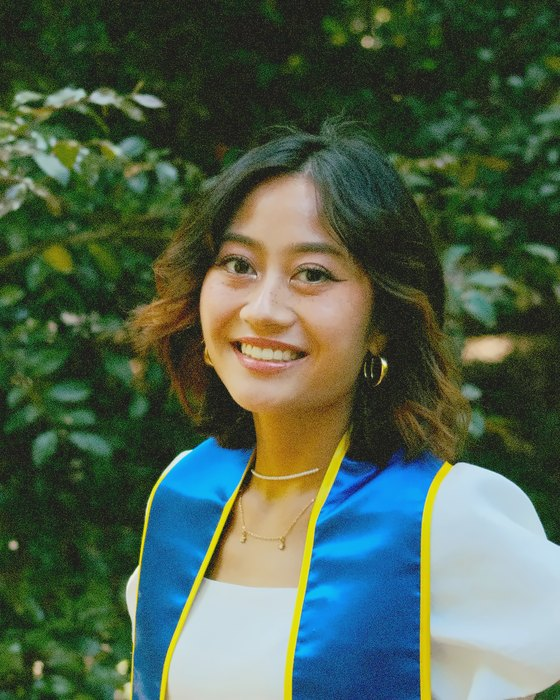
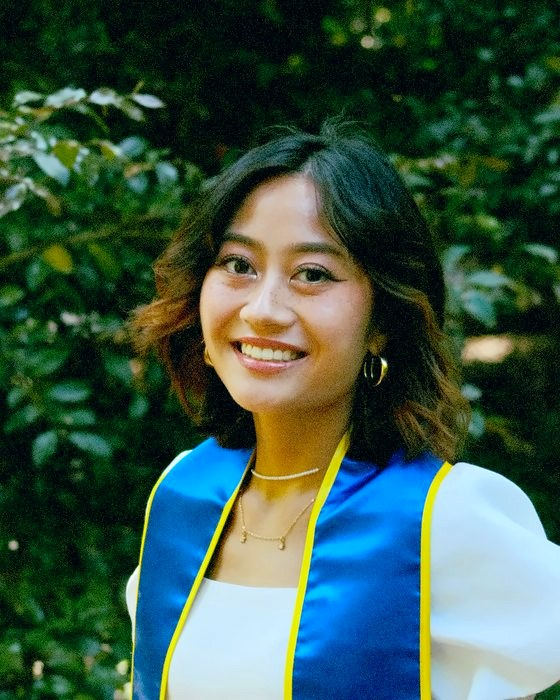
grading

diff --git a/tools/photo-tool.html b/tools/photo-tool.html
@@ -1,0 +1,323 @@
+<!doctype html>
+<html lang="en">
+<head>
+<meta charset="utf-8">
+<title>BOG photo tool</title>
+<style>
+  :root{
+    --ink:#1A0D07; --ash:#2B1710; --line:#3A2118;
+    --peach:#F9CA96; --dim:#D9A97C; --ember:#F59D24; --red:#B53417;
+  }
+  *{box-sizing:border-box}
+  body{margin:0;background:var(--ink);color:var(--peach);
+       font:14px/1.5 system-ui,-apple-system,Segoe UI,Helvetica,Arial,sans-serif}
+  header{padding:18px 22px;border-bottom:1px solid var(--line)}
+  h1{margin:0;font-size:17px;letter-spacing:.02em}
+  header p{margin:4px 0 0;color:var(--dim);font-size:13px}
+  main{display:grid;grid-template-columns:minmax(0,1fr) 320px;gap:22px;padding:22px;align-items:start}
+  @media (max-width:900px){main{grid-template-columns:1fr}}
+
+  .stage{background:var(--ash);border:1px solid var(--line);border-radius:12px;padding:16px}
+  .canvases{display:flex;gap:16px;flex-wrap:wrap;align-items:flex-start}
+  .shot{flex:0 0 auto}
+  .shot h2{margin:0 0 6px;font-size:11px;letter-spacing:.14em;text-transform:uppercase;color:var(--ember)}
+  canvas{background:#000;border-radius:8px;display:block;max-width:100%;height:auto;
+         border:1px solid var(--line);cursor:grab}
+  canvas.dragging{cursor:grabbing}
+  .hint{margin-top:10px;color:var(--dim);font-size:12px}
+
+  .panel{background:var(--ash);border:1px solid var(--line);border-radius:12px;padding:16px;
+         position:sticky;top:22px}
+  .panel h2{margin:0 0 10px;font-size:11px;letter-spacing:.14em;text-transform:uppercase;color:var(--ember)}
+  .panel section+section{margin-top:18px;padding-top:16px;border-top:1px solid var(--line)}
+  label{display:block;margin-bottom:12px;font-size:12px;color:var(--dim)}
+  label b{display:flex;justify-content:space-between;color:var(--peach);font-weight:600;margin-bottom:4px}
+  input[type=range]{width:100%;accent-color:var(--ember)}
+  select,input[type=file]{width:100%;background:var(--ink);color:var(--peach);
+    border:1px solid var(--line);border-radius:6px;padding:7px 8px;font:inherit;font-size:13px}
+  button{width:100%;padding:10px;border:0;border-radius:999px;font:inherit;font-weight:700;
+         background:var(--red);color:#fff;cursor:pointer;margin-top:6px}
+  button.ghost{background:transparent;color:var(--peach);border:1px solid var(--dim)}
+  button:disabled{opacity:.45;cursor:default}
+  .readout{margin-top:12px;font:12px/1.6 ui-monospace,SFMono-Regular,Menlo,monospace;color:var(--dim);
+           white-space:pre-wrap;word-break:break-all}
+</style>
+</head>
+<body>
+<header>
+  <h1>Burnt Out Games — photo tool</h1>
+  <p>Crop and grade by eye, then export straight into <code>public/assets/team/</code>. Nothing is uploaded; it all runs in this page.</p>
+</header>
+
+<main>
+  <div class="stage">
+    <div class="canvases">
+      <div class="shot">
+        <h2>Your crop</h2>
+        <canvas id="out" width="560" height="700"></canvas>
+      </div>
+      <div class="shot" id="refWrap" hidden>
+        <h2>Reference</h2>
+        <canvas id="ref" width="560" height="700"></canvas>
+      </div>
+    </div>
+    <p class="hint">Drag inside the crop to move the picture. Scroll or use Zoom to resize.
+       Load a teammate's finished photo as a reference to match the grading by eye.</p>
+    <div class="readout" id="stats"></div>
+  </div>
+
+  <div class="panel">
+    <section>
+      <h2>Source</h2>
+      <label>Photo to work on
+        <input type="file" id="file" accept="image/*">
+      </label>
+      <label>Output size
+        <select id="preset">
+          <option value="560x700">Headshot — 560 × 700</option>
+          <option value="1280x853">Team group photo — 1280 × 853</option>
+          <option value="1200x630">Social card — 1200 × 630</option>
+        </select>
+      </label>
+      <label>Reference to match (optional)
+        <input type="file" id="reffile" accept="image/*">
+      </label>
+    </section>
+
+    <section>
+      <h2>Framing</h2>
+      <label><b>Zoom <span id="vZoom">1.00</span></b>
+        <input type="range" id="zoom" min="0.4" max="4" step="0.01" value="1"></label>
+      <button class="ghost" id="fit">Reset framing</button>
+    </section>
+
+    <section>
+      <h2>Grading</h2>
+      <label><b>Exposure <span id="vExp">0</span></b>
+        <input type="range" id="exp" min="-60" max="60" step="1" value="0"></label>
+      <label><b>Contrast <span id="vCon">0</span></b>
+        <input type="range" id="con" min="-50" max="80" step="1" value="0"></label>
+      <label><b>Saturation <span id="vSat">0</span></b>
+        <input type="range" id="sat" min="-60" max="80" step="1" value="0"></label>
+      <label><b>Warmth <span id="vWarm">0</span></b>
+        <input type="range" id="warm" min="-40" max="40" step="1" value="0"></label>
+      <label><b>Lift shadows <span id="vLift">0</span></b>
+        <input type="range" id="lift" min="-20" max="40" step="1" value="0"></label>
+      <button class="ghost" id="resetGrade">Reset grading</button>
+    </section>
+
+    <section>
+      <h2>Export</h2>
+      <label>File name
+        <input type="text" id="name" value="lyndsey-narvaez" style="width:100%;background:var(--ink);color:var(--peach);border:1px solid var(--line);border-radius:6px;padding:7px 8px;font:inherit">
+      </label>
+      <button id="save" disabled>Download</button>
+      <p class="hint">Headshots download as two files (full size + <code>@small</code>); the group
+         photo and social card download as one. Drop them into
+         <code>public/assets/team/</code>, replacing what's there, then run
+         <code>node build.mjs</code>.</p>
+    </section>
+  </div>
+</main>
+
+<script>
+const $ = (id) => document.getElementById(id);
+const out = $('out'), ctx = out.getContext('2d', { willReadFrequently: true });
+const refC = $('ref'), refCtx = refC.getContext('2d', { willReadFrequently: true });
+
+let img = null, refImg = null;
+let view = { x: 0, y: 0, scale: 1 };      // top-left of the source in canvas space
+
+const grade = () => ({
+  exp: +$('exp').value, con: +$('con').value, sat: +$('sat').value,
+  warm: +$('warm').value, lift: +$('lift').value,
+});
+
+/* --- loading ------------------------------------------------------------ */
+// createImageBitmap honours the EXIF rotation tag. Reading the file straight
+// into a canvas does not, which is how the team photo ended up sideways.
+async function load(file) {
+  return await createImageBitmap(file, { imageOrientation: 'from-image' });
+}
+
+$('file').onchange = async (e) => {
+  if (!e.target.files[0]) return;
+  img = await load(e.target.files[0]);
+  const base = e.target.files[0].name.replace(/\.[^.]+$/, '').toLowerCase()
+    .replace(/[^a-z0-9]+/g, '-').replace(/^-|-$/g, '');
+  if (base) $('name').value = base;
+  fit(); $('save').disabled = false;
+};
+
+$('reffile').onchange = async (e) => {
+  if (!e.target.files[0]) return;
+  refImg = await load(e.target.files[0]);
+  $('refWrap').hidden = false;
+  drawRef();
+};
+
+$('preset').onchange = () => {
+  const [w, h] = $('preset').value.split('x').map(Number);
+  out.width = w; out.height = h; refC.width = w; refC.height = h;
+  if (img) fit();
+  if (refImg) drawRef();
+};
+
+/* --- framing ------------------------------------------------------------ */
+function fit() {
+  if (!img) return;
+  const s = Math.max(out.width / img.width, out.height / img.height);
+  view.scale = s;
+  view.x = (out.width - img.width * s) / 2;
+  view.y = (out.height - img.height * s) / 2;
+  $('zoom').value = '1';
+  draw();
+}
+$('fit').onclick = fit;
+
+$('zoom').oninput = () => {
+  if (!img) return;
+  const base = Math.max(out.width / img.width, out.height / img.height);
+  const next = base * (+$('zoom').value);
+  // zoom about the centre of the frame so the subject stays put
+  const cx = out.width / 2, cy = out.height / 2;
+  view.x = cx - (cx - view.x) * (next / view.scale);
+  view.y = cy - (cy - view.y) * (next / view.scale);
+  view.scale = next;
+  draw();
+};
+
+let drag = null;
+out.addEventListener('pointerdown', (e) => {
+  if (!img) return;
+  drag = { x: e.offsetX, y: e.offsetY, vx: view.x, vy: view.y };
+  out.setPointerCapture(e.pointerId); out.classList.add('dragging');
+});
+out.addEventListener('pointermove', (e) => {
+  if (!drag) return;
+  const k = out.width / out.getBoundingClientRect().width;   // canvas may be scaled by CSS
+  view.x = drag.vx + (e.offsetX - drag.x) * k;
+  view.y = drag.vy + (e.offsetY - drag.y) * k;
+  draw();
+});
+const endDrag = () => { drag = null; out.classList.remove('dragging'); };
+out.addEventListener('pointerup', endDrag);
+out.addEventListener('pointercancel', endDrag);
+out.addEventListener('wheel', (e) => {
+  if (!img) return;
+  e.preventDefault();
+  $('zoom').value = Math.min(4, Math.max(0.4, +$('zoom').value * (e.deltaY < 0 ? 1.06 : 0.94)));
+  $('zoom').oninput();
+}, { passive: false });
+
+/* --- grading ------------------------------------------------------------ */
+function apply(c, w, h) {
+  const g = grade();
+  const d = c.getImageData(0, 0, w, h), p = d.data;
+  const exp = Math.pow(2, g.exp / 60);            // stops, roughly
+  const con = 1 + g.con / 100;
+  const sat = 1 + g.sat / 100;
+  const warm = g.warm / 400;
+  const lift = g.lift / 255;
+  for (let i = 0; i < p.length; i += 4) {
+    let r = p[i] / 255, gr = p[i + 1] / 255, b = p[i + 2] / 255;
+    r *= exp; gr *= exp; b *= exp;                              // exposure
+    r += lift * (1 - r); gr += lift * (1 - gr); b += lift * (1 - b);   // shadow lift
+    r = (r - 0.5) * con + 0.5; gr = (gr - 0.5) * con + 0.5; b = (b - 0.5) * con + 0.5;
+    const y = 0.2126 * r + 0.7152 * gr + 0.0722 * b;            // saturation
+    r = y + (r - y) * sat; gr = y + (gr - y) * sat; b = y + (b - y) * sat;
+    r += warm; b -= warm;                                        // warmth
+    p[i] = Math.max(0, Math.min(255, r * 255));
+    p[i + 1] = Math.max(0, Math.min(255, gr * 255));
+    p[i + 2] = Math.max(0, Math.min(255, b * 255));
+  }
+  c.putImageData(d, 0, 0);
+}
+
+function draw() {
+  if (!img) return;
+  ctx.fillStyle = '#000'; ctx.fillRect(0, 0, out.width, out.height);
+  ctx.imageSmoothingQuality = 'high';
+  ctx.drawImage(img, view.x, view.y, img.width * view.scale, img.height * view.scale);
+  apply(ctx, out.width, out.height);
+  for (const k of ['zoom', 'exp', 'con', 'sat', 'warm', 'lift']) {
+    const el = $('v' + k[0].toUpperCase() + k.slice(1));
+    if (el) el.textContent = k === 'zoom' ? (+$('zoom').value).toFixed(2) : $(k).value;
+  }
+  report();
+}
+
+function drawRef() {
+  if (!refImg) return;
+  const s = Math.max(refC.width / refImg.width, refC.height / refImg.height);
+  refCtx.fillStyle = '#000'; refCtx.fillRect(0, 0, refC.width, refC.height);
+  refCtx.drawImage(refImg, (refC.width - refImg.width * s) / 2, (refC.height - refImg.height * s) / 2,
+    refImg.width * s, refImg.height * s);
+  report();
+}
+
+/* Same three numbers the site is judged on, measured over the zone a face
+   lands in. Match these to the reference and the card will sit with the rest. */
+function measure(c, w, h) {
+  const zx = Math.round(w * 0.30), zy = Math.round(h * 0.26);
+  const zw = Math.round(w * 0.40), zh = Math.round(h * 0.26);
+  if (zw < 2 || zh < 2) return null;
+  const p = c.getImageData(zx, zy, zw, zh).data;
+  const lum = [], sats = [];
+  for (let i = 0; i < p.length; i += 4) {
+    const r = p[i] / 255, g = p[i + 1] / 255, b = p[i + 2] / 255;
+    lum.push(0.2126 * r + 0.7152 * g + 0.0722 * b);
+    const mx = Math.max(r, g, b), mn = Math.min(r, g, b);
+    sats.push(mx > 0 ? (mx - mn) / mx : 0);
+  }
+  lum.sort((a, b) => a - b);
+  const q = (t) => lum[Math.floor((lum.length - 1) * t)];
+  return {
+    skin: q(0.70).toFixed(3),
+    contrast: (q(0.90) - q(0.10)).toFixed(3),
+    sat: (sats.reduce((a, b) => a + b, 0) / sats.length).toFixed(3),
+  };
+}
+
+function report() {
+  const a = measure(ctx, out.width, out.height);
+  let s = a ? `yours      skin ${a.skin}   contrast ${a.contrast}   saturation ${a.sat}` : '';
+  if (refImg) {
+    const b = measure(refCtx, refC.width, refC.height);
+    if (b) s += `\nreference  skin ${b.skin}   contrast ${b.contrast}   saturation ${b.sat}`;
+  }
+  s += `\nthe rest of the team sits near   skin 0.599   contrast 0.598   saturation 0.386`;
+  $('stats').textContent = s;
+}
+
+for (const k of ['exp', 'con', 'sat', 'warm', 'lift']) $(k).oninput = draw;
+$('resetGrade').onclick = () => {
+  for (const k of ['exp', 'con', 'sat', 'warm', 'lift']) $(k).value = 0;
+  draw();
+};
+
+/* --- export ------------------------------------------------------------- */
+$('save').onclick = () => {
+  const name = ($('name').value || 'photo').replace(/[^a-z0-9-]/gi, '-');
+  const grab = (cv, suffix) => cv.toBlob((b) => {
+    const a = document.createElement('a');
+    a.href = URL.createObjectURL(b);
+    a.download = `${name}${suffix}.jpg`;
+    a.click();
+    setTimeout(() => URL.revokeObjectURL(a.href), 4000);
+  }, 'image/jpeg', 0.88);
+
+  grab(out, '');
+  // Only the headshots have an @small variant on the site; the group photo and
+  // the social card do not, so don't hand you a file with nowhere to go.
+  if ($('preset').value !== '560x700') return;
+  const half = document.createElement('canvas');
+  half.width = Math.round(out.width / 2); half.height = Math.round(out.height / 2);
+  const hc = half.getContext('2d');
+  hc.imageSmoothingQuality = 'high';
+  hc.drawImage(out, 0, 0, half.width, half.height);
+  setTimeout(() => grab(half, '@small'), 400);
+};
+</script>
+</body>
+</html>

diff --git a/README.md b/README.md
@@ -254,10 +254,33 @@ minute. You can do this from your phone.
 Everything the CMS edits is a plain JSON file in `content/`. Change it, run
 `node build.mjs` to check it locally, then commit and push.
 
-### Adding a downloadable press asset
+### Reviewing all the copy at once
 
-Put the file in `public/assets/press/`, then add it under Site settings → Press
-kit → Downloadable assets with the URL `/assets/press/your-file.pdf`.
+Run `node copy-review.mjs`. It writes `COPY-REVIEW.md` — every editable string
+on the site in one file, each with the exact field it maps to.
+
+> **Note:** brand assets are deliberately not offered for public download.
+> Press enquiries get files by email.
+
+### Fixing a photo by hand
+
+`tools/photo-tool.html` — open it in a browser (double-click it). Load a photo,
+drag to frame it, adjust exposure / contrast / saturation / warmth, download.
+It writes the full-size file AND the `@small` variant with the right names.
+Drop both into `public/assets/team/`, run `node build.mjs`, done.
+
+Two things it does that matter:
+
+- It honours the EXIF rotation tag, so the Riot group photo loads the right way
+  up instead of sideways.
+- It measures the three numbers the team cards are judged on — skin level,
+  contrast, saturation — for your crop AND for a reference photo loaded beside
+  it. Load a finished teammate card as the reference and match by eye or by
+  number. The rest of the team sits near skin 0.599 / contrast 0.598 /
+  saturation 0.386.
+
+Nothing in the build touches images. Whatever JPEG sits in `public/assets/` is
+exactly what ships, so replacing a file by hand always wins.
 
 ---
 
